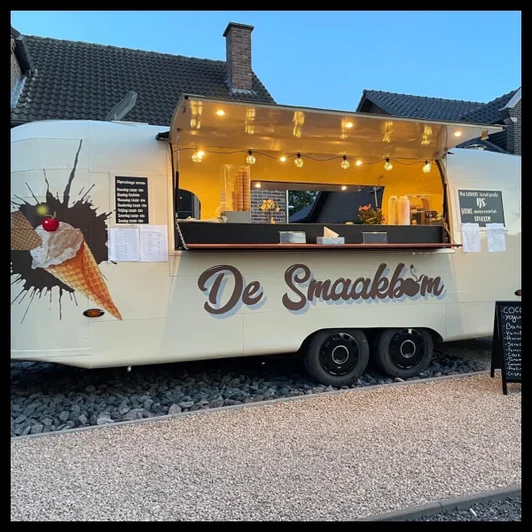
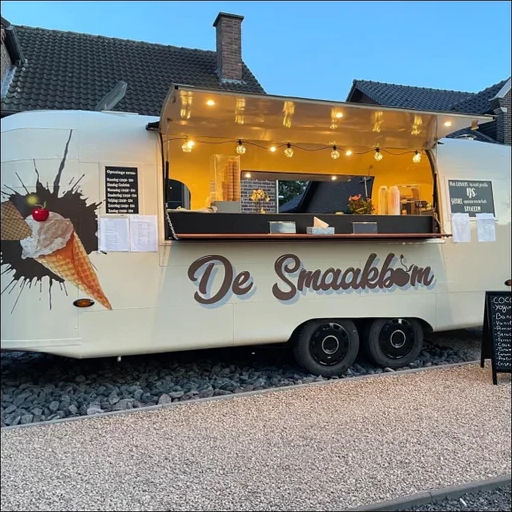
Improve typography and image layout

diff --git a/styles.css b/styles.css
@@ -27,7 +27,7 @@ body {
   background:
     radial-gradient(circle at top left, rgba(255, 224, 156, 0.55), transparent 34rem),
     linear-gradient(180deg, var(--cream), #fffaf2 42%, #f5dfb8);
-  font-family: "Nunito Sans", Arial, sans-serif;
+  font-family: "Poppins", Arial, sans-serif;
   font-size: 17px;
   line-height: 1.6;
 }
@@ -132,7 +132,8 @@ h2,
 h3 {
   margin: 0;
   color: var(--chocolate);
-  font-family: "Fraunces", Georgia, serif;
+  font-family: "Bree Serif", Georgia, serif;
+  font-weight: 400;
   line-height: 1.05;
   letter-spacing: 0;
 }
@@ -321,23 +322,10 @@ p {
   text-align: center;
 }
 
-.cakes-hero {
-  display: grid;
-  min-height: 520px;
-  align-items: end;
-  padding: 42px;
-  color: var(--white);
-  background:
-    linear-gradient(90deg, rgba(39, 25, 21, 0.78), rgba(39, 25, 21, 0.16)),
-    url("assets/ijstaart-eenhoorn.png") center/cover;
-  border-radius: 8px;
-  box-shadow: var(--shadow);
-}
-
-.cakes-hero h1,
-.cakes-hero p,
-.cakes-hero .eyebrow {
-  color: var(--white);
+.cakes-page-hero {
+  min-height: auto;
+  padding-top: 58px;
+  padding-bottom: 58px;
 }
 
 .flavors-layout {
@@ -574,11 +562,6 @@ time {
   .card img {
     height: auto;
     max-height: 520px;
-  }
-
-  .cakes-hero {
-    min-height: 430px;
-    padding: 28px;
   }
 
   .map-panel,

diff --git a/ijstaarten.html b/ijstaarten.html
@@ -7,7 +7,7 @@
   <title>ijstaarten | De Smaakbom</title>
   <link rel="preconnect" href="https://fonts.googleapis.com">
   <link rel="preconnect" href="https://fonts.gstatic.com" crossorigin>
-  <link href="https://fonts.googleapis.com/css2?family=Fraunces:wght@600;700;800&family=Nunito+Sans:wght@400;600;700;800&display=swap" rel="stylesheet">
+  <link href="https://fonts.googleapis.com/css2?family=Bree+Serif&family=Poppins:wght@400;500;600;700;800&display=swap" rel="stylesheet">
   <link rel="stylesheet" href="styles.css">
 </head>
 <body>
@@ -20,12 +20,15 @@
   </header>
 
   <main>
-    <section class="page-hero cakes-hero">
-      <div>
+    <section class="hero cakes-page-hero">
+      <div class="hero-copy">
         <p class="eyebrow">Vers en gepersonaliseerd</p>
         <h1>Ijstaarten voor elk feest</h1>
         <p>Verras je gasten met een heerlijk ijsdessert, huisbereid met zorg en afgewerkt volgens jouw gelegenheid.</p>
         <a class="button primary" href="contact.html">Bespreek jouw ijstaart</a>
+      </div>
+      <div class="hero-media">
+        <img src="assets/ijstaart-eenhoorn.png" alt="Eenhoorn ijstaart met pasteltoefjes">
       </div>
     </section>
 

diff --git a/index.html b/index.html
@@ -7,7 +7,7 @@
   <title>De Smaakbom | IJs Zonhoven</title>
   <link rel="preconnect" href="https://fonts.googleapis.com">
   <link rel="preconnect" href="https://fonts.gstatic.com" crossorigin>
-  <link href="https://fonts.googleapis.com/css2?family=Fraunces:wght@600;700;800&family=Nunito+Sans:wght@400;600;700;800&display=swap" rel="stylesheet">
+  <link href="https://fonts.googleapis.com/css2?family=Bree+Serif&family=Poppins:wght@400;500;600;700;800&display=swap" rel="stylesheet">
   <link rel="stylesheet" href="styles.css">
 </head>
 <body>

diff --git a/foodtruck.html b/foodtruck.html
@@ -7,7 +7,7 @@
   <title>foodtruck | De Smaakbom</title>
   <link rel="preconnect" href="https://fonts.googleapis.com">
   <link rel="preconnect" href="https://fonts.gstatic.com" crossorigin>
-  <link href="https://fonts.googleapis.com/css2?family=Fraunces:wght@600;700;800&family=Nunito+Sans:wght@400;600;700;800&display=swap" rel="stylesheet">
+  <link href="https://fonts.googleapis.com/css2?family=Bree+Serif&family=Poppins:wght@400;500;600;700;800&display=swap" rel="stylesheet">
   <link rel="stylesheet" href="styles.css">
 </head>
 <body>

diff --git a/contact.html b/contact.html
@@ -7,7 +7,7 @@
   <title>contact | De Smaakbom</title>
   <link rel="preconnect" href="https://fonts.googleapis.com">
   <link rel="preconnect" href="https://fonts.gstatic.com" crossorigin>
-  <link href="https://fonts.googleapis.com/css2?family=Fraunces:wght@600;700;800&family=Nunito+Sans:wght@400;600;700;800&display=swap" rel="stylesheet">
+  <link href="https://fonts.googleapis.com/css2?family=Bree+Serif&family=Poppins:wght@400;500;600;700;800&display=swap" rel="stylesheet">
   <link rel="stylesheet" href="styles.css">
 </head>
 <body>

diff --git a/smaken.html b/smaken.html
@@ -7,7 +7,7 @@
   <title>smaken | De Smaakbom</title>
   <link rel="preconnect" href="https://fonts.googleapis.com">
   <link rel="preconnect" href="https://fonts.gstatic.com" crossorigin>
-  <link href="https://fonts.googleapis.com/css2?family=Fraunces:wght@600;700;800&family=Nunito+Sans:wght@400;600;700;800&display=swap" rel="stylesheet">
+  <link href="https://fonts.googleapis.com/css2?family=Bree+Serif&family=Poppins:wght@400;500;600;700;800&display=swap" rel="stylesheet">
   <link rel="stylesheet" href="styles.css">
 </head>
 <body>

diff --git a/blog.html b/blog.html
@@ -7,7 +7,7 @@
   <title>blog | De Smaakbom</title>
   <link rel="preconnect" href="https://fonts.googleapis.com">
   <link rel="preconnect" href="https://fonts.gstatic.com" crossorigin>
-  <link href="https://fonts.googleapis.com/css2?family=Fraunces:wght@600;700;800&family=Nunito+Sans:wght@400;600;700;800&display=swap" rel="stylesheet">
+  <link href="https://fonts.googleapis.com/css2?family=Bree+Serif&family=Poppins:wght@400;500;600;700;800&display=swap" rel="stylesheet">
   <link rel="stylesheet" href="styles.css">
 </head>
 <body>
